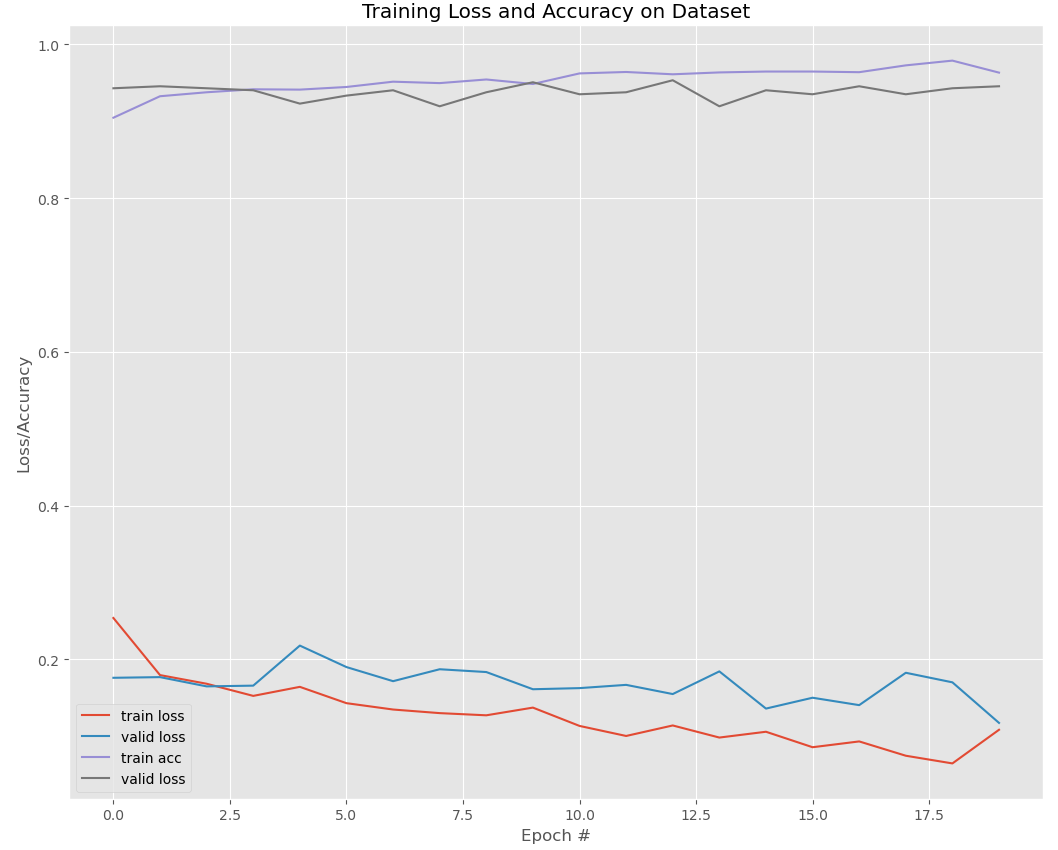
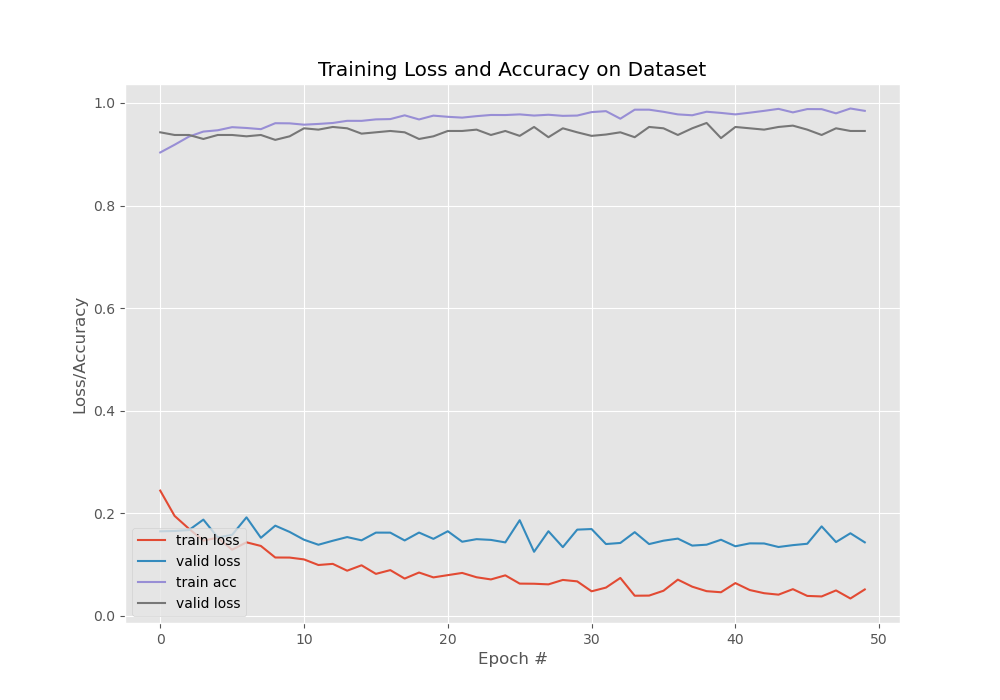
Acc loss functions

Changed region(s): [[0.031, 0.0, 0.992, 0.99], [0.0, 0.42, 0.031, 0.57]]

diff --git a/doc/trainset.md b/doc/trainset.md
@@ -23,7 +23,15 @@ The test set is a separate set of data used to test the model after completing t
 
 Full dataset **desktop**, **mobile**
 ```python3 src/test_val_train.py -source '/media/igofed/SSD_1T/AI4CI/FULLDATASET/FULLDATASET' -csv "annotation.csv" -dest 'weather_1' -type 1```
+Accuracy after training EfficientNetB0 model in PyTorch from scratch without pretrained weights.
+
+        Training loss        : 0.052, 
+        Training acc         : 0.985, 
+        Validation loss      : 0.144, 
+        Validation acc       : 0.945
+
 <img src="weather1.png" width="800">
+
 |Dataset     |Train Class0|Train Class1| Test Class0 |Test Class1 | Val Class0 | Val Class1 |
 |------------| :-- | :-- | :-- |   :-- |   :-- |   :-- |
 |Dataset 1     | 188    | 1553    |  43   |  335     |  28     |   346    |
@@ -33,7 +41,14 @@ Full dataset **desktop**, **mobile**
 
 Full dataset **desktop**, **mobile**, **berlin**, **munich**, **mainz**, **zurich**
 ```python3 src/test_val_train.py -source '/media/igofed/SSD_1T/AI4CI/FULLDATASET/FULLDATASET' -csv "annotation.csv" -dest 'weather_2' -type 2```
+
+        Training loss         : 0.052, 
+        Training acc          : 0.980,
+        Validation loss       : 0.176, 
+        Validation acc        : 0.959
+
 <img src="weather2.png" width="800">
+
 |Dataset     |Train Class0|Train Class1| Test Class0 |Test Class1 | Val Class0 | Val Class1 |
 |------------| :-- | :-- | :-- |   :-- |   :-- |   :-- |
 |Dataset 2     | 705    | 1549    |  144   |  333     |  160     |   352    |
@@ -42,7 +57,14 @@ Full dataset **desktop**, **mobile**, **berlin**, **munich**, **mainz**, **zuric
 
 Full dataset **desktop**, **mobile**, **roadway**, **berlin**, **munich**, **mainz**, **zurich**
 ```python3 src/test_val_train.py -source '/media/igofed/SSD_1T/AI4CI/FULLDATASET/FULLDATASET' -csv "annotation.csv" -dest 'weather_3' -type 3```
+
+        Training loss        : 0.052, 
+        Training acc         : 0.980
+        Validation loss      : 0.176, 
+        validation acc       : 0.959
+
 <img src="weather3.png" width="800">
+
 |Dataset     |Train Class0|Train Class1| Test Class0 |Test Class1 | Val Class0 | Val Class1 |
 |------------| :-- | :-- | :-- |   :-- |   :-- |   :-- |
 |Dataset 3     | 718    | 1863    |  143   |  395     |  148     |   417    |
@@ -51,7 +73,13 @@ Full dataset **desktop**, **mobile**, **roadway**, **berlin**, **munich**, **mai
 
 Full dataset **desktop**, **mobile**, **roadway**, **eu2013**, **berlin**, **munich**, **mainz**, **zurich**
 ```python3 src/test_val_train.py -source '/media/igofed/SSD_1T/AI4CI/FULLDATASET/FULLDATASET' -csv "annotation.csv" -dest 'weather_4' -type 4```
+
 <img src="weather4.png" width="800">
+
+        Training loss        : 0.070, 
+        Training acc         : 0.974,
+        Validation loss      : 0.226, 
+        Validation acc       : 0.929
 
 |Dataset     |Train Class0|Train Class1| Test Class0 |Test Class1 | Val Class0 | Val Class1 |
 |------------| :--  | :--  | :--  |   :-- |   :-- |   :-- |

diff --git a/doc/efficientNet.md b/doc/efficientNet.md
@@ -6,7 +6,7 @@ EfficientNet designed based on the base model B0</br>
 <img src="B0Model.png" width="480">
 
 
-# import
+# Define and import model archirtectuire 
 
 # Create Fully Connected Network
 
@@ -14,10 +14,9 @@ EfficientNet designed based on the base model B0</br>
 
 # Hyperporameters
 
-# Load DAta
+# Load Data from the disk
 
 # Initialize Network
-
 
 # Loss and optimizer
 

diff --git a/README.md b/README.md
@@ -6,6 +6,7 @@ The repository contains a Torch implementation of EfficientNeth and DenseNet arc
 
 ## Table of Contents
 
+1. [Big Picture]()</br>
 1. [Used Datasets](doc/datasets.md)</br>
 1. [Test, Train and Validation sets](doc/trainset.md)</br>
 1. [Jupyter-lab implementation of DenseNet](doc/data.md)</br>
